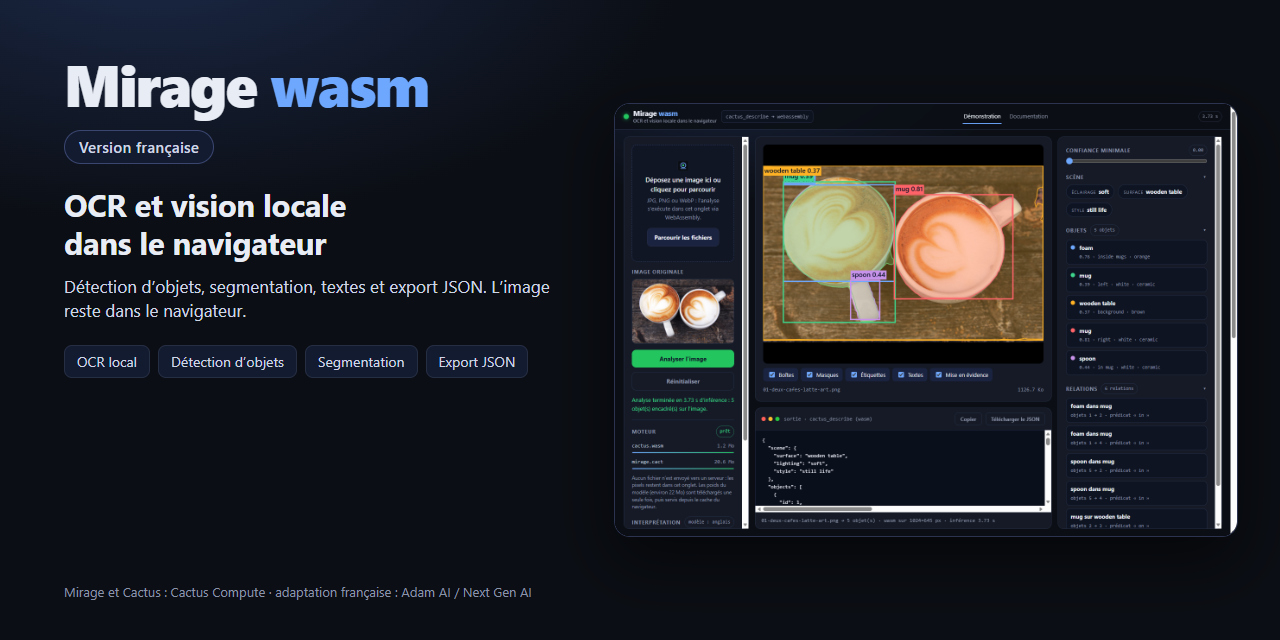
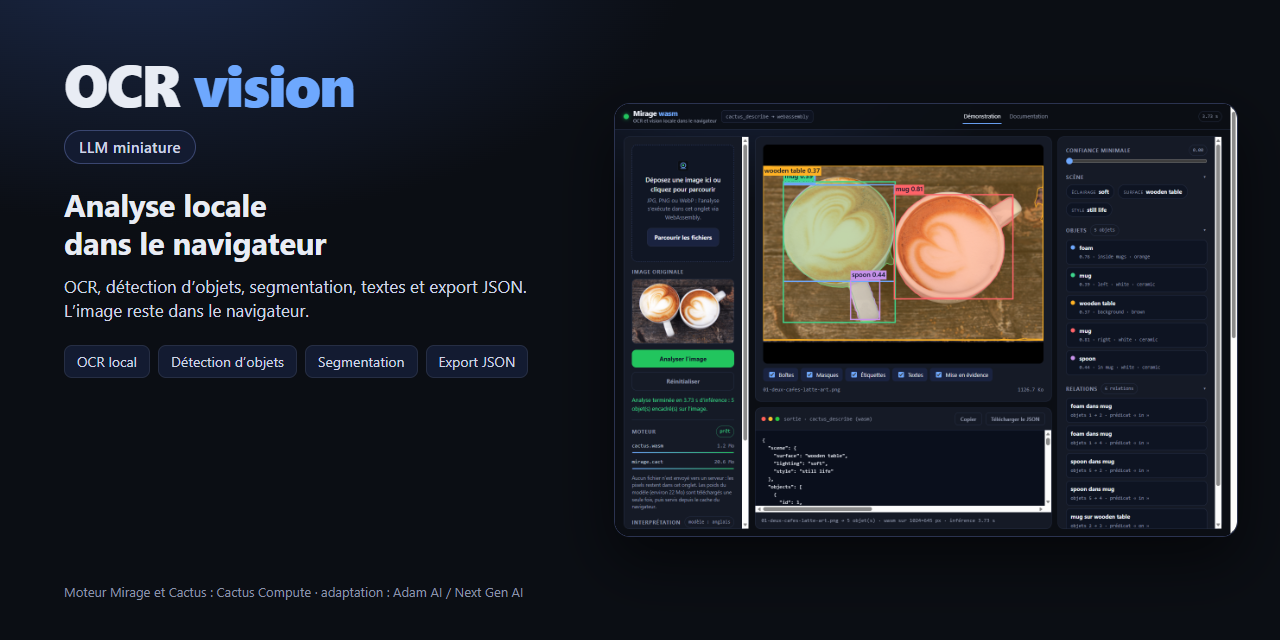
feat: nommer le produit OCR et vision avec un LLM miniature
Titre, H1, metadonnees, donnees structurees, manifeste et image sociale adoptent le nom produit. Le moteur Mirage reste cite dans le corps et les credits. Version 1.0.1.

diff --git a/wasm-app/index.html b/wasm-app/index.html
@@ -4,30 +4,30 @@
 <head>
   <meta charset="UTF-8" />
   <meta name="viewport" content="width=device-width, initial-scale=1.0" />
-  <title>Mirage WASM français : OCR et vision locale dans le navigateur</title>
+  <title>OCR et vision avec un LLM miniature : analyse locale dans le navigateur</title>
   <meta name="description"
-    content="Testez Mirage WASM en français pour analyser localement des images : OCR, détection d’objets, segmentation, relations visuelles et export JSON." />
+    content="Analysez une image dans votre navigateur avec un LLM de vision miniature : OCR, détection d’objets, segmentation, relations visuelles et export JSON, sans envoi de l’image." />
   <link rel="canonical" href="https://adam-s-tech.github.io/ocr-llm-miniature/" />
   <meta name="robots" content="index, follow" />
   <meta name="theme-color" content="#0b0e14" />
 
   <meta property="og:type" content="website" />
-  <meta property="og:site_name" content="Mirage WASM français" />
+  <meta property="og:site_name" content="OCR et vision avec un LLM miniature" />
   <meta property="og:locale" content="fr_FR" />
-  <meta property="og:title" content="Mirage WASM français : OCR et vision locale dans le navigateur" />
+  <meta property="og:title" content="OCR et vision avec un LLM miniature : analyse locale dans le navigateur" />
   <meta property="og:description"
-    content="Analysez une image dans votre navigateur : OCR, détection d’objets, segmentation et export JSON, sans envoi de l’image à un serveur." />
+    content="OCR, détection d’objets, segmentation et export JSON dans le navigateur, sans envoi de l’image à un serveur." />
   <meta property="og:url" content="https://adam-s-tech.github.io/ocr-llm-miniature/" />
   <meta property="og:image" content="https://adam-s-tech.github.io/ocr-llm-miniature/og-image.png" />
   <meta property="og:image:width" content="1280" />
   <meta property="og:image:height" content="640" />
   <meta property="og:image:alt"
-    content="Capture de l’interface Mirage WASM en français avec une image de deux cafés et les détections superposées." />
+    content="Capture de l’interface OCR et vision avec un LLM miniature, avec une image de deux cafés et les détections superposées." />
 
   <meta name="twitter:card" content="summary_large_image" />
-  <meta name="twitter:title" content="Mirage WASM français : OCR et vision locale dans le navigateur" />
+  <meta name="twitter:title" content="OCR et vision avec un LLM miniature : analyse locale dans le navigateur" />
   <meta name="twitter:description"
-    content="OCR, détection d’objets, segmentation et export JSON dans le navigateur, en local, sans envoi de l’image." />
+    content="OCR, détection d’objets, segmentation et export JSON avec un LLM de vision miniature, en local dans le navigateur." />
   <meta name="twitter:image" content="https://adam-s-tech.github.io/ocr-llm-miniature/og-image.png" />
 
   <link rel="icon" href="./favicon.svg" type="image/svg+xml" />
@@ -40,14 +40,14 @@
   {
     "@context": "https://schema.org",
     "@type": "SoftwareApplication",
-    "name": "Mirage WASM français",
+    "name": "OCR et vision avec un LLM miniature",
     "applicationCategory": "MultimediaApplication",
     "operatingSystem": "Windows, macOS, Linux, Android, iOS",
     "browserRequirements": "Navigateur récent compatible WebAssembly (Edge, Chrome, Firefox)",
-    "softwareVersion": "1.0.0",
+    "softwareVersion": "1.0.1",
     "inLanguage": "fr",
     "isAccessibleForFree": true,
-    "description": "Démonstration française du modèle de vision Mirage exécuté en WebAssembly : OCR, détection d’objets, segmentation, relations visuelles et export JSON, sans envoi de l’image à un serveur.",
+    "description": "Démonstration en français du moteur de vision Mirage, exécuté en WebAssembly : OCR, détection d’objets, segmentation, relations visuelles et export JSON, sans envoi de l’image à un serveur.",
     "url": "https://adam-s-tech.github.io/ocr-llm-miniature/",
     "license": "https://github.com/Adam-s-tech/ocr-llm-miniature/blob/main/NOTICE.md",
     "isBasedOn": "https://github.com/joemaddalone/mirage-demo",
@@ -67,10 +67,10 @@
   {
     "@context": "https://schema.org",
     "@type": "WebSite",
-    "name": "Mirage WASM français",
+    "name": "OCR et vision avec un LLM miniature",
     "url": "https://adam-s-tech.github.io/ocr-llm-miniature/",
     "inLanguage": "fr",
-    "description": "Démonstration pédagogique en français de Mirage WASM : OCR et vision par ordinateur dans le navigateur."
+    "description": "Démonstration en français d’OCR et de vision avec un LLM miniature, moteur Mirage, exécuté dans le navigateur."
   }
   </script>
 </head>
@@ -83,8 +83,8 @@
       <div class="brand">
         <span class="brand-mark" aria-hidden="true"></span>
         <h1 class="brand-title">
-          <span class="brand-name">Mirage <span class="accent">wasm</span></span>
-          <span class="brand-tagline">OCR et vision locale dans le navigateur</span>
+          <span class="brand-name">OCR <span class="accent">vision</span></span>
+          <span class="brand-tagline">LLM miniature dans le navigateur</span>
         </h1>
         <code class="cmd">cactus_describe → webassembly</code>
       </div>
@@ -231,7 +231,7 @@
   <div class="editorial">
     <section aria-labelledby="titre-intro">
       <h2 id="titre-intro">Un modèle de vision local, exécuté dans le navigateur</h2>
-      <p>Mirage WASM est une démonstration de vision par ordinateur qui tourne entièrement dans l’onglet : l’image est
+      <p>Cette démonstration d’OCR et de vision tourne entièrement dans l’onglet : l’image est
         lue par le navigateur, passée au moteur Cactus compilé en WebAssembly, puis décrite par le modèle Mirage de
         Cactus Compute. Aucun pixel n’est envoyé à un serveur d’inférence.</p>
       <p>L’outil combine plusieurs sorties dans un seul résultat : description de scène, détection d’objets avec boîtes

diff --git a/wasm-app/documentation.html b/wasm-app/documentation.html
@@ -4,17 +4,17 @@
 <head>
   <meta charset="UTF-8" />
   <meta name="viewport" content="width=device-width, initial-scale=1.0" />
-  <title>Documentation Mirage WASM français : exemples, limites et confidentialité</title>
+  <title>Documentation : OCR et vision avec un LLM miniature</title>
   <meta name="description"
-    content="Documentation de la démonstration Mirage WASM en français : déroulement d’une analyse, comparaison des modes navigateur et serveur, trois exemples de référence, limites observées et politique de confidentialité." />
+    content="Documentation de la démonstration OCR et vision avec un LLM miniature : déroulement d’une analyse, comparaison des modes navigateur et serveur, trois exemples de référence, limites observées et politique de confidentialité." />
   <link rel="canonical" href="https://adam-s-tech.github.io/ocr-llm-miniature/documentation.html" />
   <meta name="robots" content="index, follow" />
   <meta name="theme-color" content="#0b0e14" />
 
   <meta property="og:type" content="article" />
-  <meta property="og:site_name" content="Mirage WASM français" />
+  <meta property="og:site_name" content="OCR et vision avec un LLM miniature" />
   <meta property="og:locale" content="fr_FR" />
-  <meta property="og:title" content="Documentation Mirage WASM français : exemples, limites et confidentialité" />
+  <meta property="og:title" content="Documentation : OCR et vision avec un LLM miniature" />
   <meta property="og:description"
     content="Comment fonctionne la démonstration, ce que les trois tests montrent réellement, et pourquoi l’image reste dans le navigateur." />
   <meta property="og:url" content="https://adam-s-tech.github.io/ocr-llm-miniature/documentation.html" />
@@ -23,9 +23,9 @@
   <meta property="og:image:height" content="640" />
 
   <meta name="twitter:card" content="summary_large_image" />
-  <meta name="twitter:title" content="Documentation Mirage WASM français : exemples, limites et confidentialité" />
+  <meta name="twitter:title" content="Documentation : OCR et vision avec un LLM miniature" />
   <meta name="twitter:description"
-    content="Déroulement d’une analyse, exemples de référence et limites observées avec Mirage WASM en français." />
+    content="Déroulement d’une analyse, exemples de référence et limites observées avec un LLM de vision miniature." />
   <meta name="twitter:image" content="https://adam-s-tech.github.io/ocr-llm-miniature/og-image.png" />
 
   <link rel="icon" href="./favicon.svg" type="image/svg+xml" />
@@ -38,15 +38,15 @@
   {
     "@context": "https://schema.org",
     "@type": "WebPage",
-    "name": "Documentation Mirage WASM français",
+    "name": "Documentation OCR et vision avec un LLM miniature",
     "url": "https://adam-s-tech.github.io/ocr-llm-miniature/documentation.html",
     "inLanguage": "fr",
     "isPartOf": {
       "@type": "WebSite",
-      "name": "Mirage WASM français",
+      "name": "OCR et vision avec un LLM miniature",
       "url": "https://adam-s-tech.github.io/ocr-llm-miniature/"
     },
-    "description": "Documentation de la démonstration française de Mirage WASM : fonctionnement, exemples de référence, limites et confidentialité."
+    "description": "Documentation de la démonstration OCR et vision avec un LLM miniature : fonctionnement, exemples de référence, limites et confidentialité."
   }
   </script>
   <script type="application/ld+json">
@@ -78,8 +78,8 @@
     <div class="brand">
       <span class="brand-mark" aria-hidden="true"></span>
       <p class="brand-title">
-        <span class="brand-name">Mirage <span class="accent">wasm</span></span>
-        <span class="brand-tagline">OCR et vision locale dans le navigateur</span>
+        <span class="brand-name">OCR <span class="accent">vision</span></span>
+        <span class="brand-tagline">LLM miniature dans le navigateur</span>
       </p>
     </div>
     <nav class="topnav" aria-label="Navigation principale">
@@ -89,7 +89,7 @@
   </header>
 
   <main class="editorial" id="contenu">
-    <h1>Documentation de la démonstration Mirage WASM</h1>
+    <h1>Documentation de la démonstration OCR et vision avec un LLM miniature</h1>
     <p class="lead">Cette page explique ce que fait la démonstration, comment lire ses résultats, ce que les trois tests
       de référence montrent réellement, et pourquoi l’image analysée ne quitte pas le navigateur.</p>
 

diff --git a/wasm-app/app.js b/wasm-app/app.js
@@ -1,10 +1,10 @@
-// Mirage wasm : version française de la démonstration.
+// OCR et vision : version française de la démonstration.
 // Même interface que la version serveur, mais l’inférence tourne dans cet onglet.
 // Le moteur Cactus (cactus.js + cactus.wasm) et les poids mirage.cact sont
 // récupérés une fois, puis chaque analyse est un appel WebAssembly direct sur
 // les pixels déjà présents dans un canevas. Aucune image n’est envoyée.
 
-const APP_VERSION = "1.0.0";
+const APP_VERSION = "1.0.1";
 const HF_MODEL_URL =
   "https://huggingface.co/Cactus-Compute/mirage/resolve/main/mirage.cact";
 

diff --git a/public/app.js b/public/app.js
@@ -3,7 +3,7 @@
 // à la CLI Cactus via POST /api/describe (index.ts). Le JSON renvoyé par Mirage
 // reste la source affichée : l’interface ne le réécrit pas.
 
-const APP_VERSION = "1.0.0";
+const APP_VERSION = "1.0.1";
 
 const drop = document.getElementById("drop");
 const fileInput = document.getElementById("file");

diff --git a/wasm-app/serve.ts b/wasm-app/serve.ts
@@ -111,4 +111,4 @@ Bun.serve({
   },
 });
 
-console.log(`Mirage wasm UI -> http://localhost:${PORT}`);
+console.log(`OCR et vision UI -> http://localhost:${PORT}`);

diff --git a/docs/installation.md b/docs/installation.md
@@ -98,8 +98,8 @@ Après la première publication :
 
 La description et les topics se règlent dans **Settings** (ou par l’API). Valeurs prévues :
 
-- description : `Démo française de Mirage WASM : OCR, vision par ordinateur, détection d’objets, segmentation et extraction JSON locale dans le navigateur.` ;
-- topics : `mirage`, `cactus-compute`, `webassembly`, `wasm`, `ocr`, `computer-vision`, `object-detection`,
+- description : `OCR et vision avec un LLM miniature : analyse d’image locale dans le navigateur avec le moteur Mirage, détection d’objets, segmentation et export JSON.` ;
+- topics : `ocr`, `vision`, `llm`, `mirage`, `cactus-compute`, `webassembly`, `wasm`, `computer-vision`, `object-detection`,
   `image-segmentation`, `local-ai`, `browser-ai`, `document-ai`, `french`.
 
 ### Social preview

diff --git a/docs/cas-usage.md b/docs/cas-usage.md
@@ -1,8 +1,8 @@
 # Cas d’usage
 
-Mirage WASM n’est pas un OCR comptable certifié. C’est un modèle de vision léger qui produit une lecture structurée
-d’une image, utile pour comprendre, démontrer, trier ou préparer un traitement. Les cas ci-dessous précisent ce que
-l’outil apporte réellement et les précautions à prendre.
+Cette démonstration d’OCR et de vision n’est pas un OCR comptable certifié. C’est un modèle de vision léger qui produit
+une lecture structurée d’une image, utile pour comprendre, démontrer, trier ou préparer un traitement. Les cas ci-dessous
+précisent ce que l’outil apporte réellement et les précautions à prendre.
 
 ## 1. Formation et démonstration d’IA locale
 
